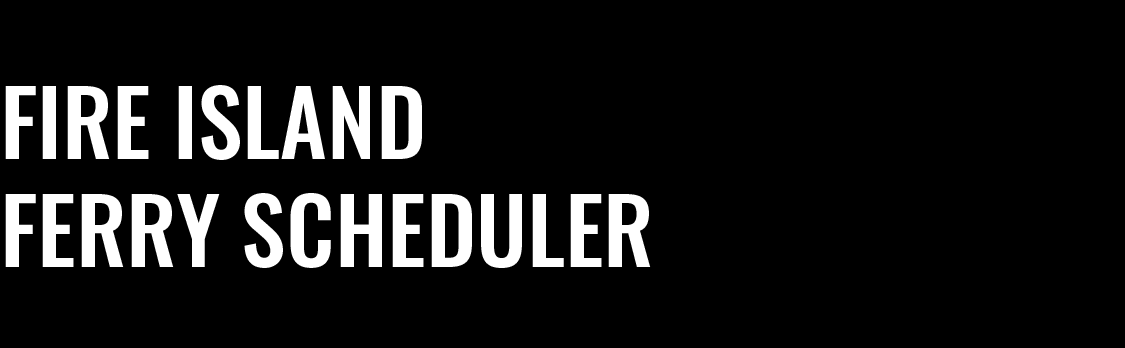
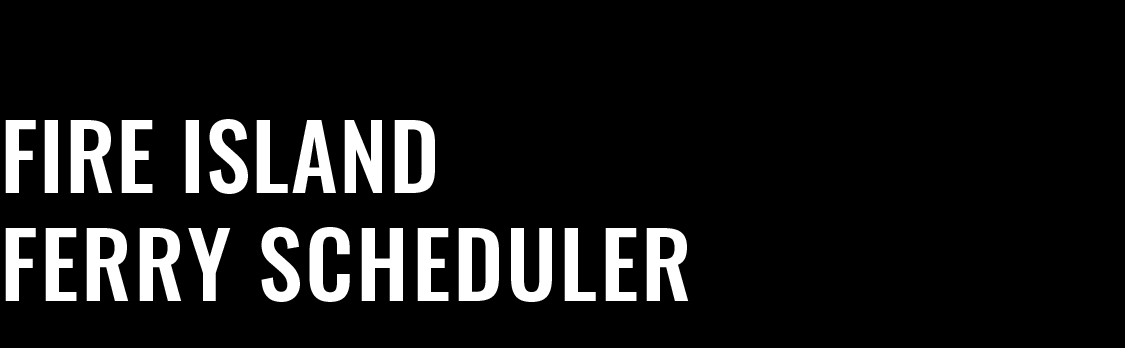
Work on alignment 8

Changed region(s): [[0.0, 0.2299, 0.6222, 0.8621]]

diff --git a/mobile.css b/mobile.css
@@ -2,8 +2,8 @@ html, body {overflow-x: hidden;}
 
 a, p, option {
    font-family: Oswald;
-   font-size: 16px;
-   margin-top: 8px;
+   font-size: 20px;
+   margin-top: 16px;
 }
 
 .appear {display: inline-block;}
